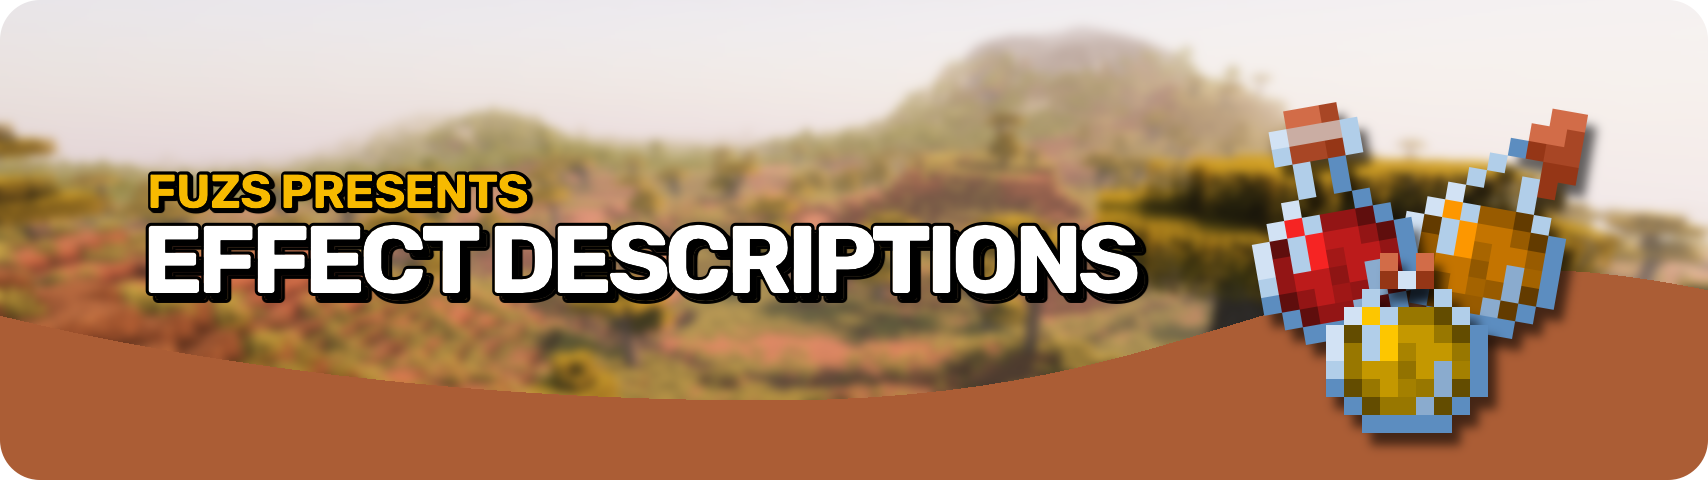
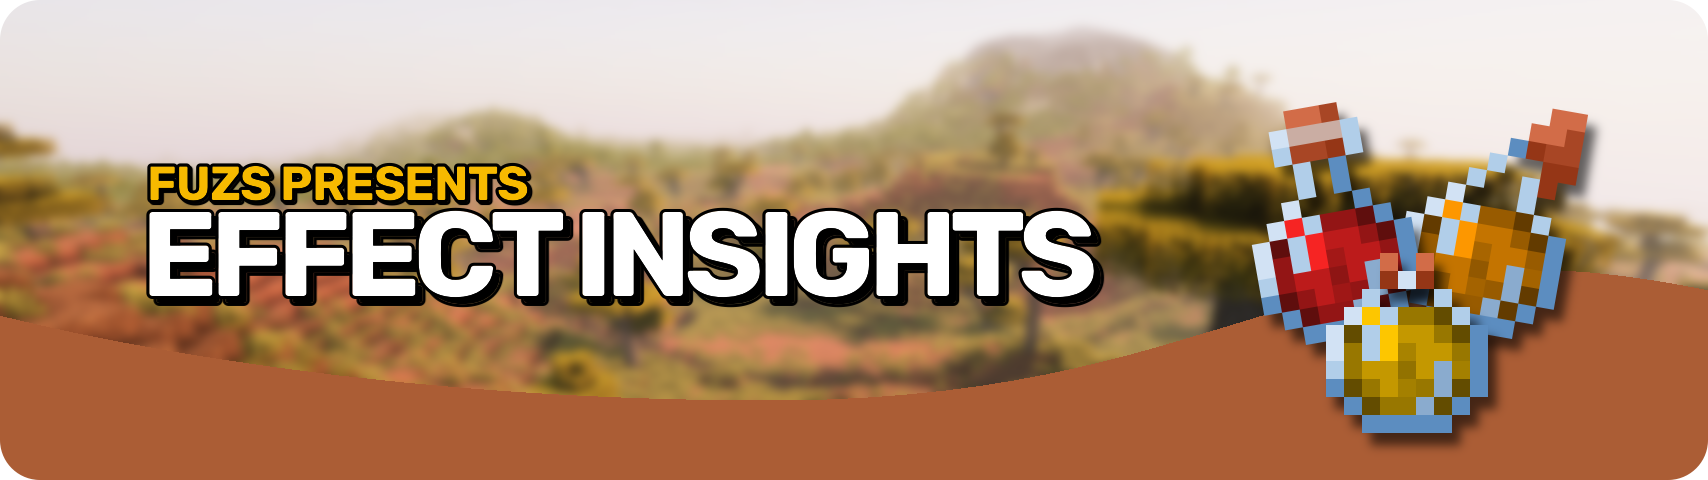
publish enchantmentinsights

Changed region(s): [[0.0621, 0.3125, 0.6827, 0.6562]]

diff --git a/pages/data/effectinsights/about.md b/pages/data/effectinsights/about.md
@@ -1,3 +1,3 @@
-Effect Descriptions is very similar to the popular [Enchantment Descriptions](https://www.curseforge.com/minecraft/mc-mods/enchantment-descriptions) mod by [Darkhax](https://www.curseforge.com/members/DarkhaxDev): For every potion effect a simple explanation is added to the item tooltip. And for the effects already on your player? Simply hover over the effect widgets in your inventory to see the descriptions! Descriptions for all vanilla effects are built-in, contributing effect descriptions for modded effects is much appreciated.
+**Effect Insights** adds simple explanations to status effects from potions and food items, so you always know exactly what each one does. Effects on items show their descriptions directly in the tooltip, and the active effects on your player? Just hover over them in your inventory to see what they do. Everything looks neat and consistent, with clean formatting for quick understanding.  
 
-To further enhance your experience when it comes to potion effects make sure to also check out [Stylish Effects](https://www.curseforge.com/minecraft/mc-mods/stylish-effects), [Distinguished Potions](https://www.curseforge.com/minecraft/mc-mods/distinguished-potions) and [Just Enough Effect Descriptions](https://www.curseforge.com/minecraft/mc-mods/just-enough-effect-descriptions-jeed)!
+Looking for enchantment descriptions too? Check out the wonderful [Enchantment Insights](https://www.curseforge.com/minecraft/mc-mods/enchantment-insights) mod!

diff --git a/pages/data/enchantmentinsights/credits.md b/pages/data/enchantmentinsights/credits.md
@@ -1,0 +1,3 @@
++ Huge thanks to [Darkhax](https://www.curseforge.com/members/DarkhaxDev) for the original [Enchantment Descriptions](https://www.curseforge.com/minecraft/mc-mods/enchantment-descriptions) mod. A great concept that’s been around for years and now shines again having been fully revamped for modern Minecraft.
++ Thanks to [Stal](https://www.curseforge.com/members/stal) for their stylish [Clean Tooltips](https://www.curseforge.com/minecraft/mc-mods/clean-tooltips) mod, which inspired the dyed enchantment names.  
++ Thanks to [gliscowo](https://www.curseforge.com/members/gliscowo) for [Idwtialsimmoedm](https://www.curseforge.com/minecraft/mc-mods/idwtialsimmoedm), which served as a foundation for the tooltip style.  

diff --git a/pages/data/enchantmentinsights/features.md b/pages/data/enchantmentinsights/features.md
@@ -1,0 +1,6 @@
+- ✨ **Clear Descriptions:** Every enchantment comes with an easy-to-understand explanation in item tooltips.  
+- 🧭 **Extra Info:** Optionally display compatible item tags, source mod, and enchantment ID.  
+- 🎨 **Beautiful Formatting:** Dyed names, colored bullet points, and neat indentation make tooltips look clean and polished.  
+- 🔢 **Level Display:** Shows both the current and max level for each enchantment.  
+- 💡 **Helpful in Enchanting Table:** Displays the same descriptions for enchantment hints while choosing enchantments.  
+- ⚙ **Configurable:** Control when to show descriptions and which details to include. Even formatting is fully customizable.

diff --git a/pages/data/enchantmentinsights/about.md b/pages/data/enchantmentinsights/about.md
@@ -1,0 +1,3 @@
+**Enchantment Insights** adds enchantment descriptions directly to your item tooltips, so you always know what each enchantment does. Enchantment entries look great too: dyed names, max levels, and fancy formatting with clean indentation make tooltips both clear and stylish. The enchanting table isn’t left behind either: its hints include the same descriptions, so you know exactly what you’re getting.  
+
+Looking for neat effect descriptions too? Check out the wonderful [Effect Insights](https://www.curseforge.com/minecraft/mc-mods/effect-insights) mod!

diff --git a/pages/data/effectinsights/features.md b/pages/data/effectinsights/features.md
@@ -1,0 +1,5 @@
+- ✨ **Effect Explanations:** Every potion and food effect includes a simple, readable explanation.  
+- 👁 **Hover Details:** Hover over effect icons in your inventory to instantly see their details.  
+- 📝 **Additional Info:** Optionally show the effect’s source mod and effect ID for more context.  
+- 🎨 **Styled Tooltips:** Clean layout and styling make descriptions fit naturally into tooltips.  
+- ⚙ **Flexible Settings:** Choose when and where descriptions appear, and customize formatting to your liking.
